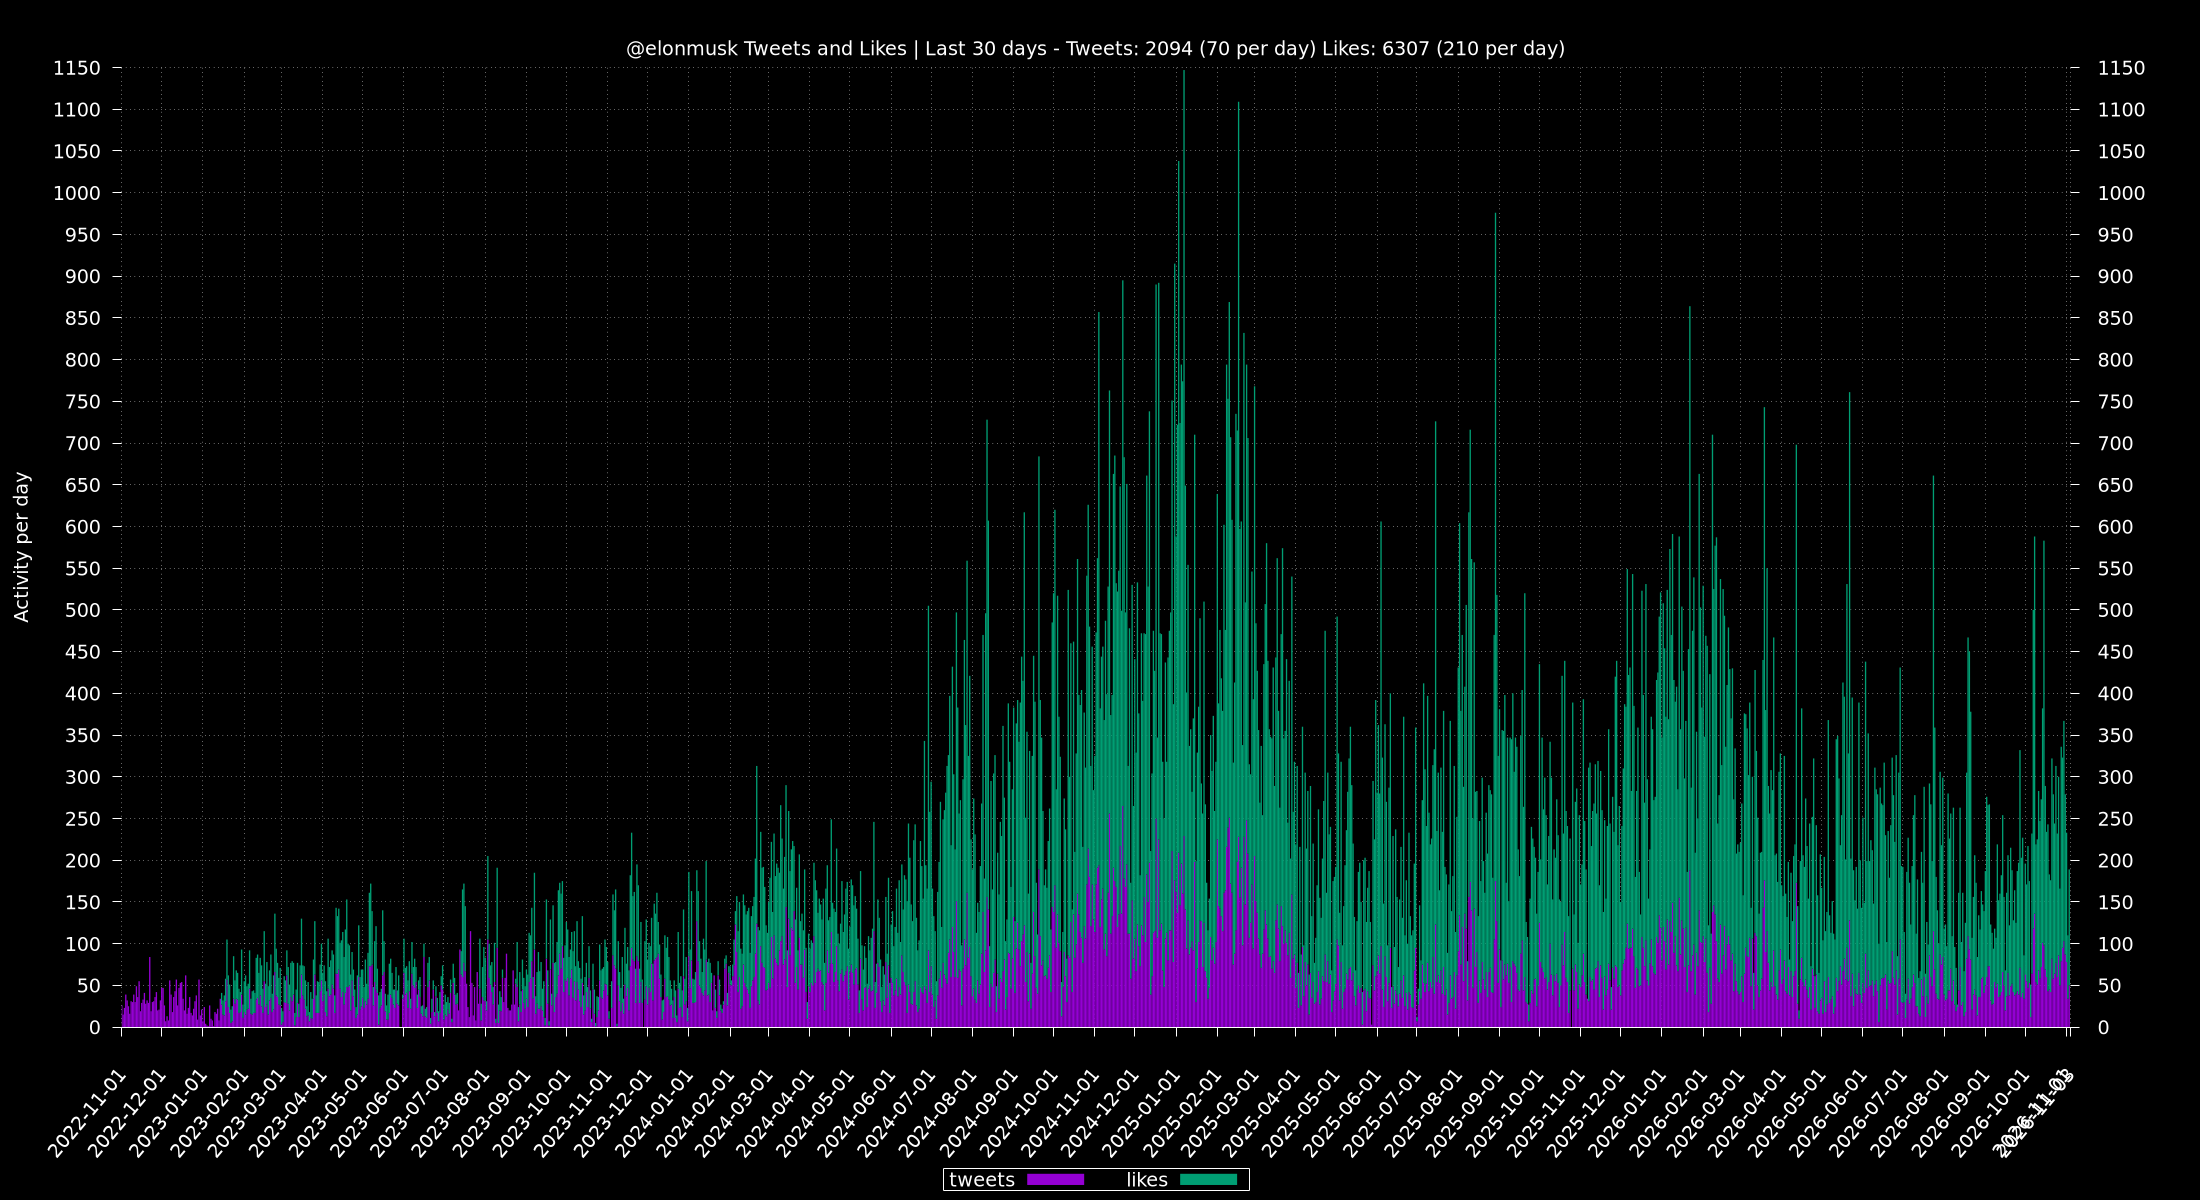
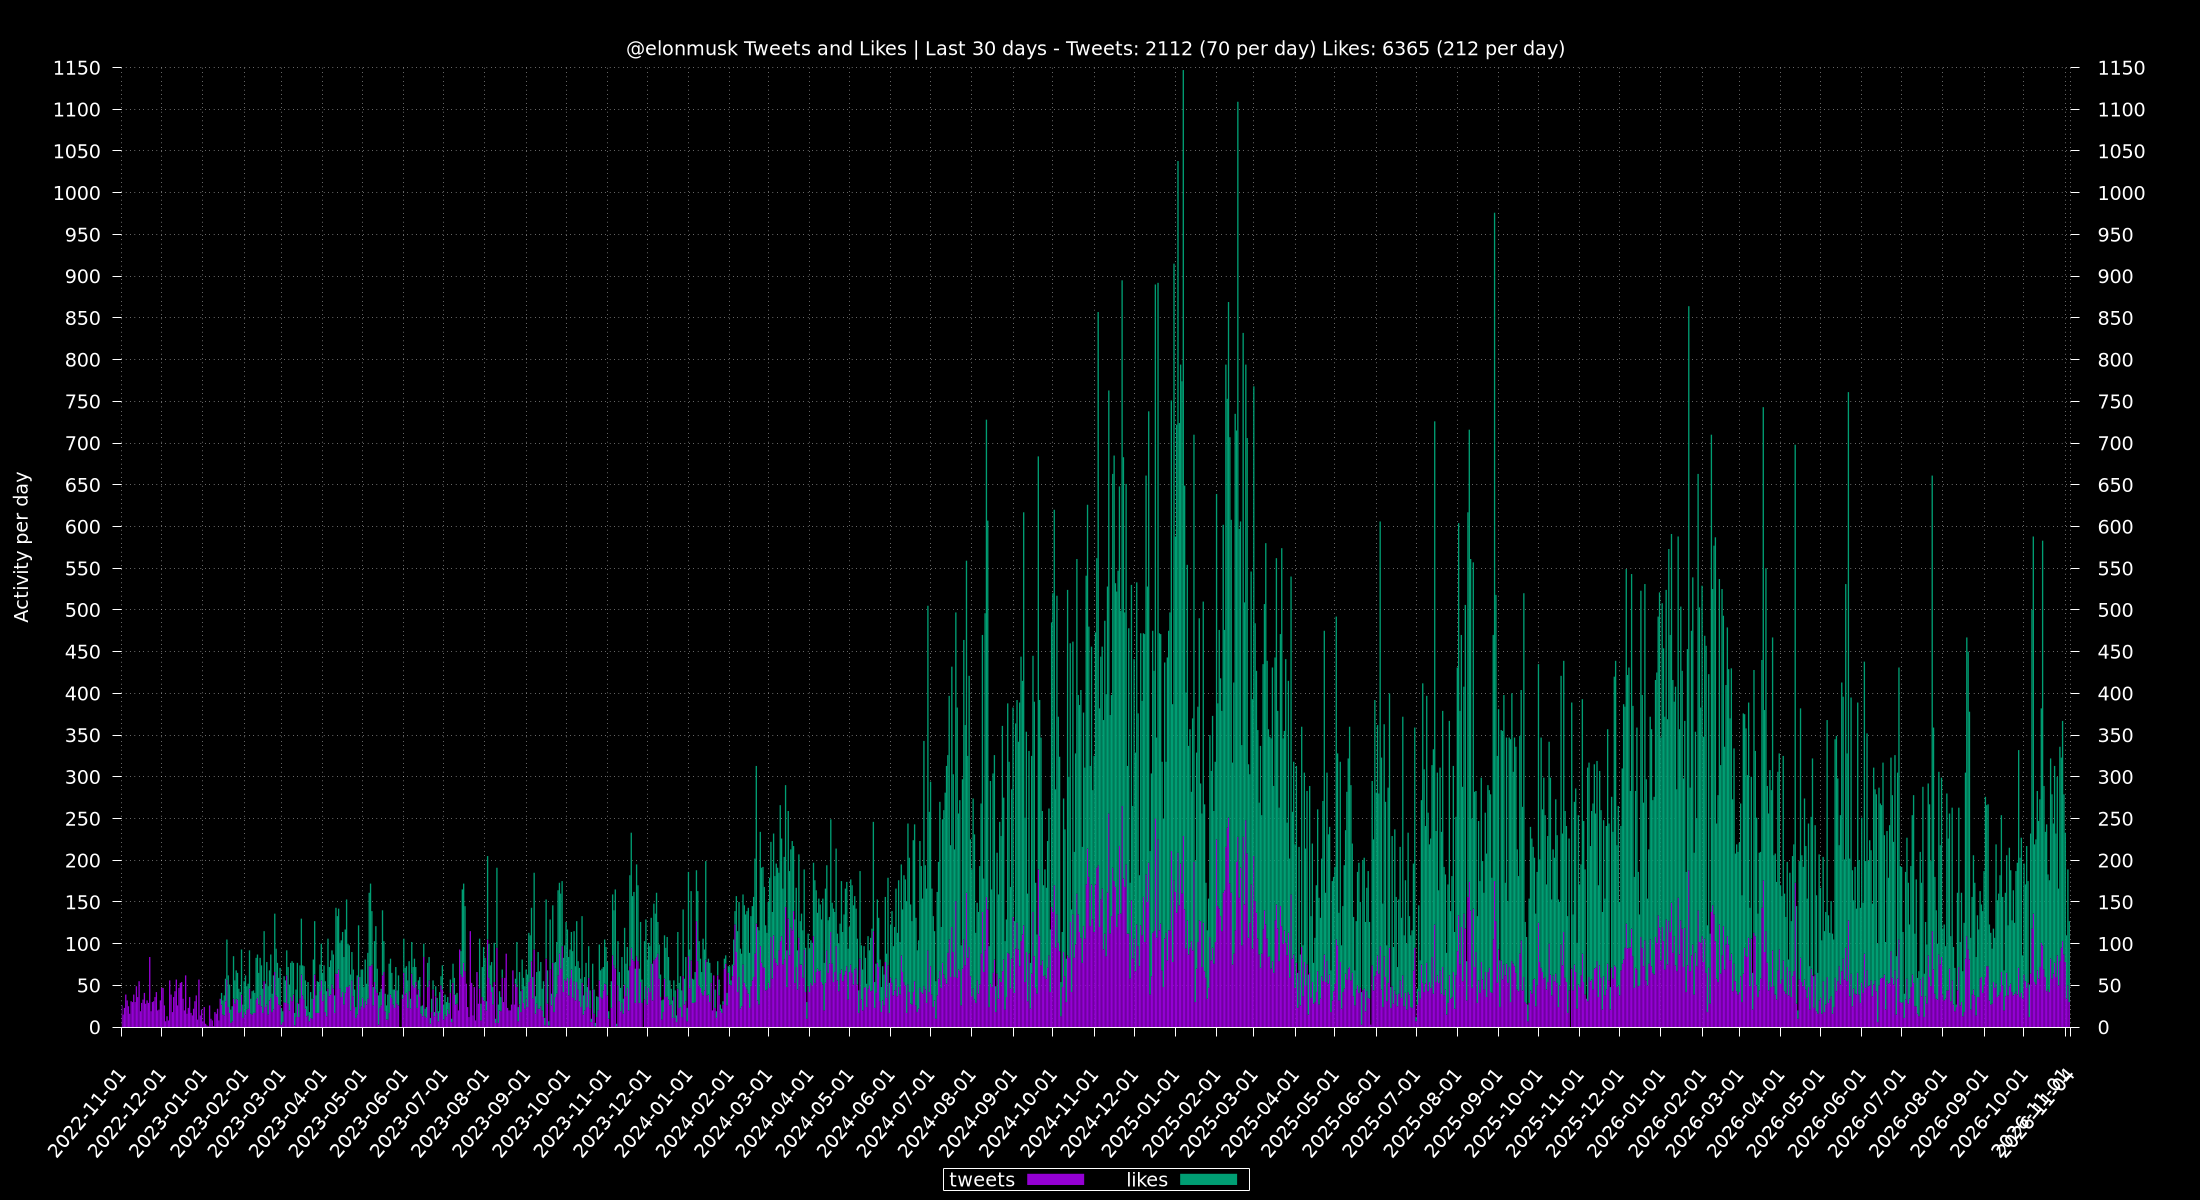
update via cron

Changed region(s): [[0.1545, 0.1542, 0.9582, 0.8633], [0.1236, 0.8942, 0.9582, 0.9558], [0.5255, 0.0308, 0.5564, 0.0617]]

diff --git a/totals/README.md b/totals/README.md
@@ -1,6 +1,6 @@
 ## Last 30 Days
-Tweets: 2147 (69 per day)\
-Likes: 6429 (207 per day)
+Tweets: 2124 (69 per day)\
+Likes: 6404 (207 per day)
 
 ## 24 Hours
 Max: [**341**](../misc/most-tweets_24-hr.csv) - From `2024-11-23 14:29:53 CST` To `2024-11-24 14:28:44 CST`
